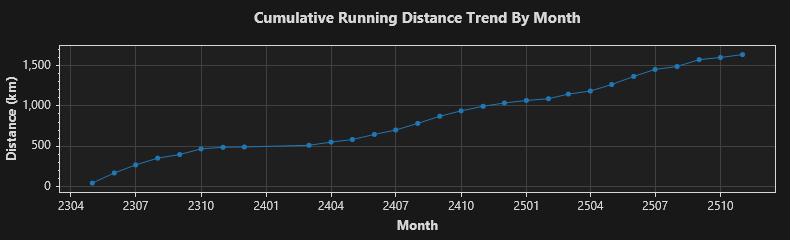
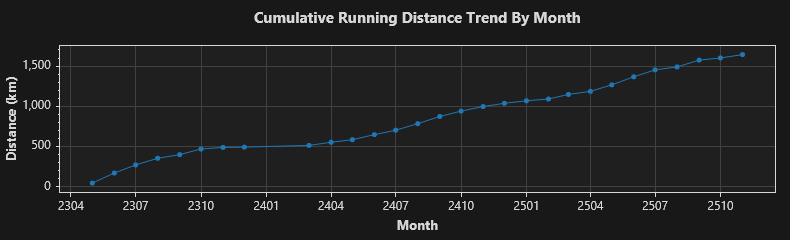
2025/11/22 跑步 6.12 公里

diff --git a/trend.md b/trend.md
@@ -1,4 +1,4 @@
-### Total: 275 days, 1636.57 km.
+### Total: 276 days, 1642.69 km.
 
 
 ![Monthly](https://github.com/prime167/MyRunningLog/blob/main/data/CumulativeTrendByMonth.png)
